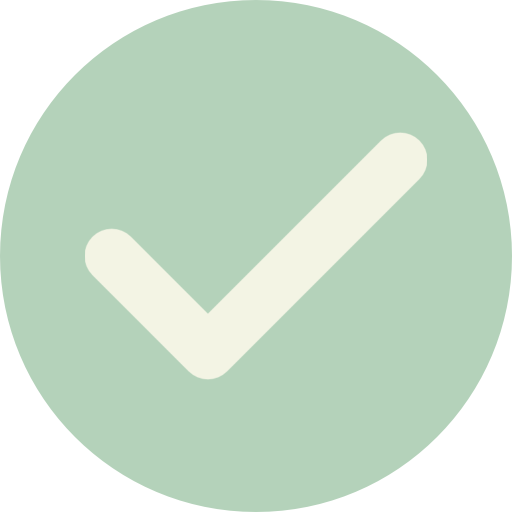
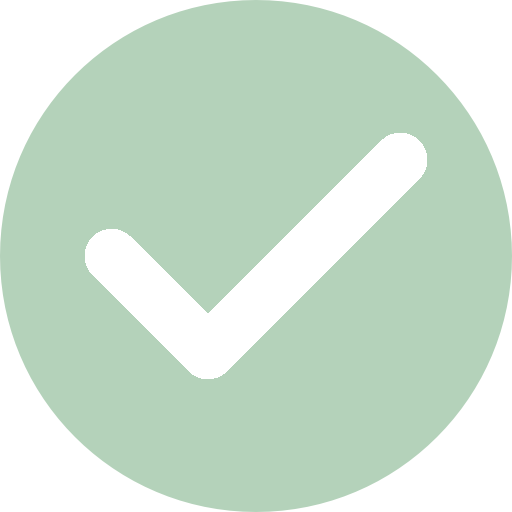
Polish swipe buttons

Changed region(s): [[0.1562, 0.25, 0.8438, 0.75]]

diff --git a/css/style.css b/css/style.css
@@ -189,9 +189,15 @@ nav ul {
 
 
 .button-type2 {
-   background-color: #b4d2ba;
-   color: #4b543b;
-   border: none;
+  background-color: #b4d2ba;
+  color: #4b543b;
+  border: none;
+  border-radius: 20px;
+  font-family: inherit;
+  font-size: 2.25rem;                     /* 36px */
+  padding: 1rem;
+  cursor: pointer;
+  transition: background-color 0.3s ease;
 }
 
 
@@ -413,25 +419,6 @@ nav ul {
    color: #4b543b;
    border-radius: 20px;
  }
-  /* — Swipe Buttons (Type 2) — */
- .swipe-buttons {
-   margin-top: 2rem;
-   display: flex;
-   gap: 2rem;
-   justify-content: center;
-   width: 100%;
- }
- .button-type2 {
-   background-color: #b4d2ba;              /* default bg */
-   color: #4b543b;
-   font-family: inherit;
-   font-size: 2.25rem;                     /* 36px */
-   border: none;
-   border-radius: 20px;
-   padding: 1rem;
-   cursor: pointer;
-   transition: background-color 0.3s ease;
- }
 
    /* — Restaurant Card — */
    .restaurant-card {
@@ -462,49 +449,30 @@ nav ul {
       order: 1;
     }
 
-/* ACCEPT / REJECT BUTTONS */
-.swipe-buttons {
-   position: static; /* removes absolute positioning for mobile/desktop */
-   margin-top: 1rem;
-   display: flex;
-   gap: 2rem;
-   justify-content: center;
- }
-
- .button-type2 img {
-  width: 48px;                 /* shrink your check/x icons */
-  height: auto;
-}
-
-   /* — Swipe Buttons (Type 2) — */
+   /* — Swipe Buttons — */
   .swipe-buttons {
+    position: static; /* removes absolute positioning for mobile/desktop */
     margin-top: 2rem;
     display: flex;
     gap: 2rem;
-  }
-  
-  .button-type2 {
-    background-color: #b4d2ba;              /* default bg */
-    color: #4b543b;
-    font-family: inherit;
-    font-size: 2.25rem;                     /* 36px */
-    border: none;
-    border-radius: 20px;
-    padding: 1rem;
-    cursor: pointer;
-    transition: background-color 0.3s ease;
-  }
+    justify-content: center;
+   
+   > button {
+    display: flex;
+    align-items: center;
+    justify-content: center;
+    background:none;
+    border:none;
 
- .button-type2:hover {
-   background-color: #97bb9e;              /* hover bg */
- }
- .swipe-buttons .button-type2 {
-   width: 64px;
-   height: 64px;
-   border-radius: 50%;                     /* circular on swipe page */
-   display: flex;
-   align-items: center;
-   justify-content: center;
+      > img {
+        width: 4rem;              /* shrink your check/x icons */
+        height: auto;
+      }
+
+      > img:hover {
+        filter: brightness(80%)
+      }
+   }
  }
 
   /*** SWIPE LAYOUT ***/

diff --git a/swipe.html b/swipe.html
@@ -55,10 +55,10 @@
         <!-- Accept / Reject Buttons -->
         <!-- Accept / Reject Buttons -->
         <div class="swipe-buttons">
-          <button class="button-type2" title="Reject">
+          <button title="Reject">
             <img src="assets/decline-icon.png" alt="Reject" />
           </button>
-          <button class="button-type2" title="Accept">
+          <button title="Accept">
             <img src="assets/accept-icon.png" alt="Accept" />
           </button>
         </div>
